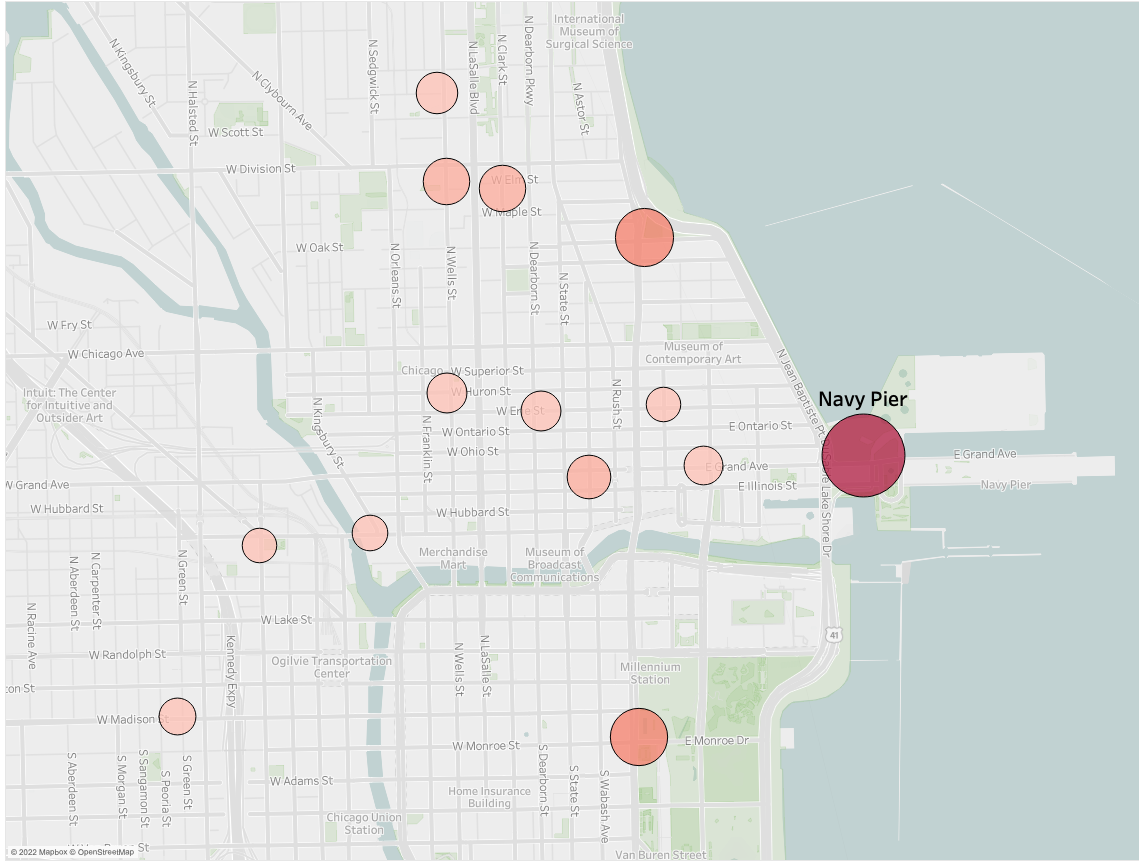
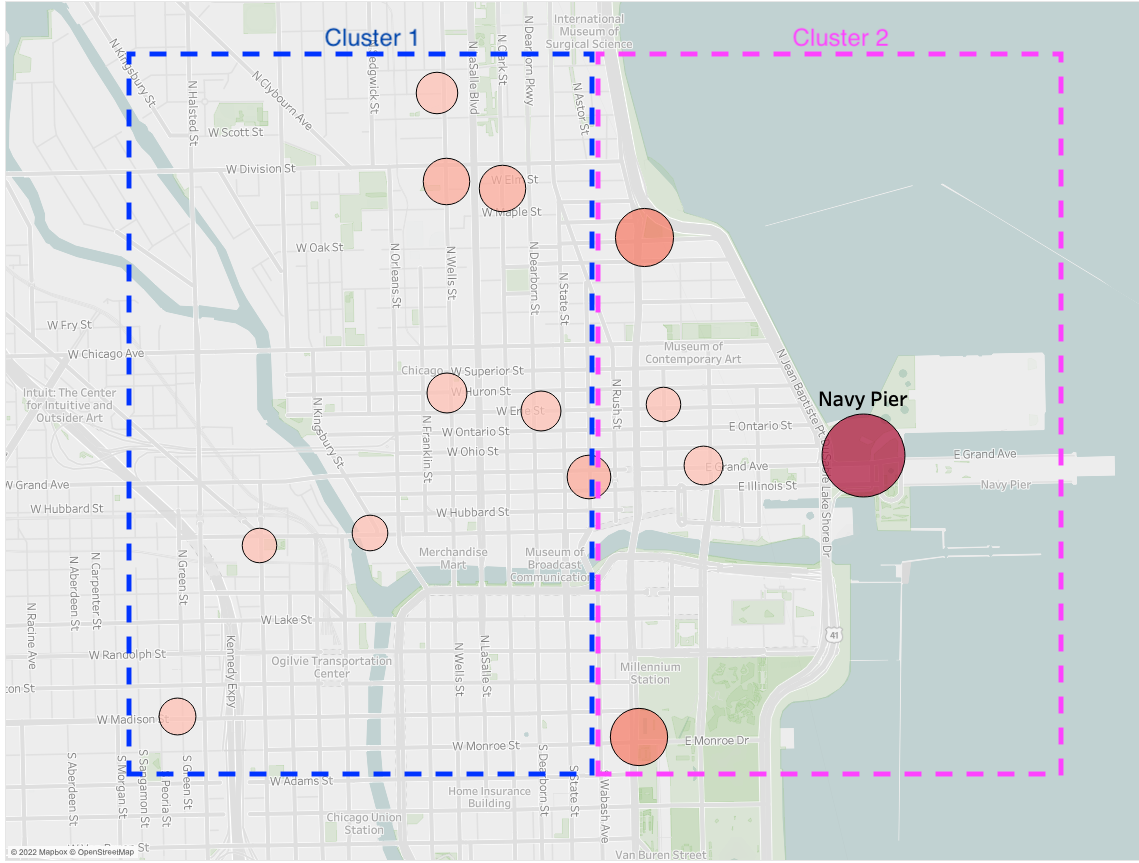
updates in readme

diff --git a/readme_draft.md b/readme_draft.md
@@ -1,0 +1,225 @@
+Actionable insights for Cyclistic marketing department
+================
+
+The Cyclistic marketing department is developing a strategy for
+converting casual riders to annual members (subscribers). The analytic
+goals of this project are to <b> understand how annual members and
+casual riders use Cyclistic bikes differently and <i>why</i> casual
+riders might join the platform</b>. As part of their strategy, the
+marketing team seeks advice on using digital media to influence
+conversions.
+
+For the full detailed analysis with code, see finalcode.md. Note that
+cyclistic_r.Rproj is a reproducible project in RStudio.
+
+# Executive Summary of Recommendations
+
+Here are the recommendations highlighted in this report:
+
+1.  Require e-mail sign-ups to track user journeys.
+
+2.  Create an <b>e-mail newsletter</b> that targets two clusters of
+    casual riders and annual members (based on geospatial data).
+
+3.  Track <b>key performance metrics</b>, such as number of rides based
+    on geospatial, hourly, and seasonal trends to monitor the
+    <b>effectiveness of the newsletter</b>.
+
+<b><font color="blue"> The following sections contain expanded
+insights/recommendations based on daily, hourly, and seasonal usage of
+Cyclistic bikes</b></font>:
+
+# Monitor Cyclistic user journeys using e-mail sign-ups
+
+The greatest number of rides for both casual riders and annual members
+are registered over the summer. There is a \~5% increase in workday
+monthly rides from Jul-Sep for annual members, but a \~16% decrease in
+casual rides over the same seasonal period. See graph below.
+
+<p align="center">
+<img src="cyclisticreport_files/figure-gfm/plot_rides_month-1.png" style="width:70.0%" />
+</p>
+
+<i>This trend inspires us to wonder whether there is a conversion of
+casual riders taking place. To validate this claim, I recommend tracking
+user journeys in the Cyclistic platform.</i> One way to do this is to
+require first-time casual riders to enter their e-mail before taking out
+a bike. This would allow us to track conversions by monitoring the
+activity of casual riders who sign up for a membership <i>at a later
+date with the same e-mail address</i>.
+
+Furthermore, notice that in May the number of casual weekend rides
+surpasses the number of weekend rides from annual members. In the
+winter, members ride more than casual riders (confirmed in the following
+sections).
+
+# Create e-mail newsletter that targets customers based on local rides/engagement
+
+Whether the majority of conversions occur during the summer or not, it
+is evident from seasonal trends that most rides for casual and member
+customer types take place over the summer.
+
+<p align="center">
+<img src="cyclisticreport_files/totalrides_season.png" style="width:70.0%" />
+</p>
+
+A digital media campaign based on an e-mail newsletter could keep
+Cyclistic users informed of bike-friendly summer events (e.g. festivals,
+parks, etc), particularly near Navy Pier (one of Chicago’s most popular
+tourist destinations). Navy Pier and recreational events along the coast
+should be highlighted given the popularity of Streeter & Grand Ave
+station, which is explained below.
+
+## Segment the e-mail list based on geospatial data and number of rides per station
+
+In order to make the e-mail newsletter effective, we can segment the
+population of customers. Based on geospatial data we identify two
+segments of bike stations for each customer type:
+
+Cluster 1: Stations near the shore (e.g. Navy Pier, Michigan Ave,
+Millenium Park) Cluster 2: Stations away away from the shore
+
+The graph below shows the top 3 stations in number of casual riders:
+
+<p align="center">
+<img src="cyclisticreport_files/top3stations_casuals.png" style="width:70.0%" />
+</p>
+
+Notice that Streeter Dr & Grand Ave dominates in total number of rides
+for casual riders. This station is near tourist sites like Navy Pier.
+Similarly, Michigan Ave and Millenium Park are popular tourist
+attractions. These fall under Cluster 1 for casual riders.
+
+In the following geospatial graph of the top stations (in number of
+rides), each circle represents a station. The size of circles represents
+the amount of outgoing rides for a given station.
+
+Cluster 1, stations near the shore, are much more popular with casual
+riders
+
+<p align="center">
+<img src="cyclisticreport_files/casual_stations.png" style="width:70.0%" />
+</p>
+
+In contrast, see the top three stations for annual members:
+
+<p align="center">
+<img src="cyclisticreport_files/top3stations_members.png" style="width:70.0%" />
+</p>
+
+The popularity of stations for customers who are annual members shifts
+away from the coast as seen below, where Cluster 2 is more dominant:
+
+<p align="center">
+<img src="cyclisticreport_files/member_stations.png" style="width:70.0%" />
+</p>
+
+Findings from geospatial data reveal the following trends: 1. Number of
+rides in cluster 1 is higher for casual riders 2. Number of rides in
+cluster 2 is higher for annual members
+
+The top stations in Cluster 1 contain recreational areas (Navy Pier,
+Millenium Park, etc.) while stations in Cluster 2 contain commercial
+establishments.
+
+Based on these geospatial trends, I recommend the e-mail newsletter
+target each cluster differently.
+
+The data suggests casual riders might join the platform for recreational
+reasons and continue to use their membership for work. More evidence is
+provided for this statement in the following section.
+
+# Why do casual riders convert to annual members?
+
+When analyzing hourly data, we see a monthly increase in the use of
+bikes at 8AM and 5PM which suggests a tendency for annual members to use
+bikes during work hours, while casual riders lag in the increase of
+ridership during traditional work hours (see graph below).
+
+<p align="center">
+<img src="cyclisticreport_files/figure-gfm/plot_rides_hours-1.png" style="width:70.0%" />
+</p>
+
+<b>Given the decrease in casual riders and slight increase in members
+over Jul-Sep months, as well as hourly and geospatial trends seen above,
+it seems casual riders join over the summer for recreational use and,
+when they convert, they maximize the benefits of their membership by
+riding to work.</b>
+
+# Track key performance metrics to maximize the effectiveness of newsletter
+
+With the current data, we can only keep track of number of rides.
+Assuming that is all we have, let’s use weekend and workday number of
+rides to monitor the effectiveness of the newsletter.
+
+Based on the increased number of weekend rides for casual riders,
+weekend events should be highlighted in the newsletter to promote the
+platform to casual riders who are trying to figure out what to do in
+Chicago over the weekend.
+
+This would allow us to target casual riders who registered the maximum
+number of rides on Saturdays. See graph below for trends in number of
+rides per day on a given weekday.
+
+<p align="center">
+<img src="cyclisticreport_files/figure-gfm/plot_rides_per_day-1.png" style="width:70.0%" />
+</p>
+
+Hourly bike use should also be considered. Based on the graph below,
+which shows increased activity for members during (working) lunch hours,
+I also recommend the newsletter highlight the benefit of biking to work
+and grabbing a bite to eat.
+
+<p align="center">
+<img src="cyclisticreport_files/figure-gfm/plot_rides_tod-1.png" style="width:70.0%" />
+</p>
+
+Notice the increase in activity during traditional workday hours 8AM and
+5PM (08:00 and 17:00 hours in the graphs), and the slight uptick in
+rides during lunch hours. In contrast, hourly ride use becomes more
+evenly distributed over the weekend.
+
+<b>The key performance metrics for the newsletter can be the number of
+rides per geospatial cluster, weekday vs workday, and hour
+(e.g. lunch).</b>
+
+Additional key performance metrics for the future could be number of
+sign-ups and conversions based on tracking the user journey with e-mail
+addresses that I proposed above.
+
+# Preliminary insights on Cyclistic ride lengths
+
+The mean workday ride length/duration for casual riders was
+approximately 24 minutes, and the median was \~14 minutes. In contrast,
+the mean workday ride duration for casual riders was \~29 minutes and
+the median was \~17 minutes.
+
+It should be noted, however, that the difference in median and mean
+values suggests the distribution for ride lengths is skewed positive and
+not normally distributed.
+
+The lack of a normal distribution for ride lengths should be noted if
+decision-makers decide to follow-up with rigorous statistical modeling.
+To provide preliminary insights, let’s look at a visualization of casual
+riders and annual member distributions.
+
+<p align="center">
+<img src="cyclisticreport_files/figure-gfm/plot_ridelength_density-1.png" style="width:70.0%" />
+</p>
+
+# Conclusions
+
+The insights and recommendations presented here are supported by
+exploratory data analysis. By requiring casual users to register with
+e-mail, we can keep track of the user journey from casual use to annual
+membership.
+
+I propose an e-mail newsletter to influence conversions.
+
+Clustering the populations of casual riders and annual members based on
+geospatial and hourly trends allows us to target riders based on their
+current journey (recreational use vs workday use).
+
+The recommendations presented here provide summarized findings after
+data cleaning, analysis, and visualization. For the entire code, see
+finalcode.md.
